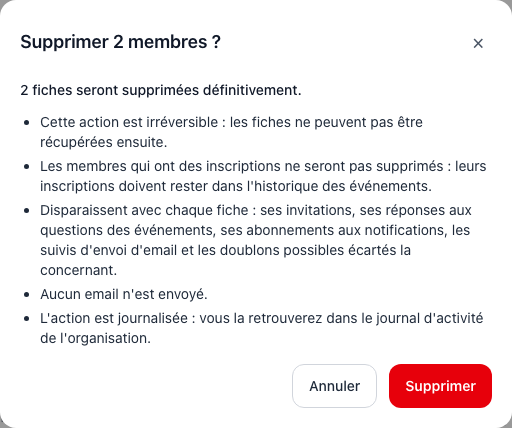
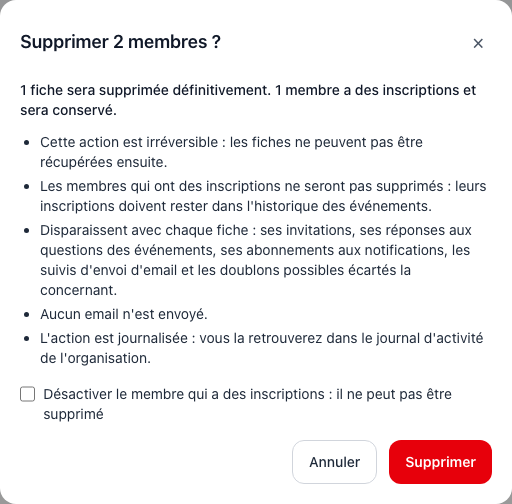
feat(members): say how many records a bulk deletion keeps
The confirmation now says how many records will be deleted and how many
members are kept for their registrations, instead of announcing the whole
selection as deleted. The checkbox names the members it deactivates.
Recapture the dialog with one member of each kind.

Closes #1307

diff --git a/src/lib/__tests__/action-recap.test.ts b/src/lib/__tests__/action-recap.test.ts
@@ -1,5 +1,5 @@
 import { describe, it, expect } from "vitest"
-import { acceptRequestRecap, bulkCancelCounts, bulkCancelRecap, bulkDeactivateMembersRecap, dayLabel, bulkLeaderRecap, bulkResendRecap, deactivateMemberRecap, broadcastRecap, prefillRecap, prefillNeedsConfirmation, deleteMilestoneRecap, deleteOrgRecap, deletePageRecap, toggleOrgRecap, deleteRoleRecap, deleteShiftRecap, shiftWhen, logLinkFor, remindInvitedRecap, removeLeaderRecap, unsavedRoleOrderRecap } from "../action-recap"
+import { acceptRequestRecap, bulkCancelCounts, bulkCancelRecap, bulkDeactivateMembersRecap, bulkDeleteMembersRecap, dayLabel, bulkLeaderRecap, bulkResendRecap, deactivateMemberRecap, broadcastRecap, prefillRecap, prefillNeedsConfirmation, deleteMilestoneRecap, deleteOrgRecap, deletePageRecap, toggleOrgRecap, deleteRoleRecap, deleteShiftRecap, shiftWhen, logLinkFor, remindInvitedRecap, removeLeaderRecap, unsavedRoleOrderRecap } from "../action-recap"
 
 // Confirmation before sensitive actions (#379).
 describe("action recaps", () => {
@@ -148,5 +148,22 @@ describe("unsavedRoleOrderRecap", () => {
     expect(r.confirmLabel).toBe("Fermer sans enregistrer")
     expect(r.danger).toBe(false)
     expect(r.lines).toEqual([])
+  })
+})
+
+describe("bulkDeleteMembersRecap lead (#1307)", () => {
+  it("announces the whole selection when nothing is known about registrations", () => {
+    expect(bulkDeleteMembersRecap(3).lead).toBe("3 fiches seront supprimées définitivement.")
+    expect(bulkDeleteMembersRecap(1, 0).lead).toBe("Cette fiche sera supprimée définitivement.")
+  })
+
+  it("says how many go and how many stay when some members have registrations", () => {
+    expect(bulkDeleteMembersRecap(2, 1).lead).toBe("1 fiche sera supprimée définitivement. 1 membre a des inscriptions et sera conservé.")
+    expect(bulkDeleteMembersRecap(10, 3).lead).toBe("7 fiches seront supprimées définitivement. 3 membres ont des inscriptions et seront conservés.")
+  })
+
+  it("never announces a deletion when every selected member will be kept", () => {
+    expect(bulkDeleteMembersRecap(2, 2).lead).toBe("Aucune fiche ne sera supprimée : les 2 membres sélectionnés ont des inscriptions.")
+    expect(bulkDeleteMembersRecap(1, 1).lead).toBe("Cette fiche ne sera pas supprimée : ce membre a des inscriptions.")
   })
 })

diff --git a/src/lib/action-recap.ts b/src/lib/action-recap.ts
@@ -158,12 +158,30 @@ export function bulkDeactivateMembersRecap(count: number): ActionRecap {
  * exclusions the action applies are said before it runs — an explicit confirmation replaces the
  * deactivation step of the single-member action.
  */
-export function bulkDeleteMembersRecap(count: number): ActionRecap {
+/**
+ * `withRegistrations`: how many selected members have registrations, when the list knows it
+ * (#1307). The lead then says how many records will really go, instead of announcing the whole
+ * selection as deleted when some (or all) of it will be kept.
+ */
+function bulkDeleteLead(count: number, withRegistrations: number | null): string {
+  const all = count > 1 ? `${count} fiches seront supprimées définitivement.` : "Cette fiche sera supprimée définitivement."
+  if (withRegistrations === null || withRegistrations <= 0) return all
+  const kept = Math.min(withRegistrations, count)
+  const deletable = count - kept
+  if (deletable === 0) {
+    return count > 1
+      ? `Aucune fiche ne sera supprimée : les ${count} membres sélectionnés ont des inscriptions.`
+      : "Cette fiche ne sera pas supprimée : ce membre a des inscriptions."
+  }
+  const goes = deletable > 1 ? `${deletable} fiches seront supprimées définitivement.` : "1 fiche sera supprimée définitivement."
+  const stays = kept > 1 ? `${kept} membres ont des inscriptions et seront conservés.` : "1 membre a des inscriptions et sera conservé."
+  return `${goes} ${stays}`
+}
+
+export function bulkDeleteMembersRecap(count: number, withRegistrations: number | null = null): ActionRecap {
   return {
     title: `Supprimer ${n(count, "membre", "membres")} ?`,
-    lead: count > 1
-      ? `${count} fiches seront supprimées définitivement.`
-      : "Cette fiche sera supprimée définitivement.",
+    lead: bulkDeleteLead(count, withRegistrations),
     lines: [
       "Cette action est irréversible : les fiches ne peuvent pas être récupérées ensuite.",
       "Les membres qui ont des inscriptions ne seront pas supprimés : leurs inscriptions doivent rester dans l'historique des événements.",

diff --git a/src/components/__tests__/MembersManager.react.test.tsx b/src/components/__tests__/MembersManager.react.test.tsx
@@ -443,7 +443,7 @@ describe("MembersManager — bulk deactivating a selection", () => {
     fireEvent.click(screen.getByRole("checkbox", { name: "Tout sélectionner" }))
     fireEvent.click(screen.getByRole("button", { name: "Supprimer la sélection" }))
     const dialog = screen.getByRole("alertdialog", { name: "Supprimer 3 membres ?" })
-    const checkbox = within(dialog).getByRole("checkbox", { name: /^Désactiver les membres qui ne peuvent pas être supprimés \(ceux qui ont des inscriptions\) \(1 membre\)$/ })
+    const checkbox = within(dialog).getByRole("checkbox", { name: "Désactiver le membre qui a des inscriptions : il ne peut pas être supprimé" })
     expect(checkbox).not.toBeChecked()
   })
 
@@ -482,7 +482,7 @@ describe("MembersManager — bulk deactivating a selection", () => {
     fireEvent.click(screen.getByRole("checkbox", { name: "Tout sélectionner" }))
     fireEvent.click(screen.getByRole("button", { name: "Supprimer la sélection" }))
     const dialog = screen.getByRole("alertdialog", { name: "Supprimer 3 membres ?" })
-    fireEvent.click(within(dialog).getByRole("checkbox", { name: /Désactiver les membres/ }))
+    fireEvent.click(within(dialog).getByRole("checkbox", { name: /^Désactiver (le|les) / }))
     fireEvent.click(within(dialog).getByRole("button", { name: "Supprimer" }))
 
     await waitFor(() => expect(fetchMock).toHaveBeenCalledWith("/api/admin/members/bulk-delete", {

diff --git a/src/lib/__tests__/member-bulk-deletion.test.ts b/src/lib/__tests__/member-bulk-deletion.test.ts
@@ -153,8 +153,8 @@ describe("bulk deletion checkbox (#1307)", () => {
   it("labels the checkbox with the number of selected members that have registrations, singular included", () => {
     expect(bulkDeactivateKeptLabel(null)).toBe(BULK_DEACTIVATE_KEPT_LABEL)
     expect(bulkDeactivateKeptLabel(0)).toBe(BULK_DEACTIVATE_KEPT_LABEL)
-    expect(bulkDeactivateKeptLabel(1)).toBe(`${BULK_DEACTIVATE_KEPT_LABEL} (1 membre)`)
-    expect(bulkDeactivateKeptLabel(3)).toBe(`${BULK_DEACTIVATE_KEPT_LABEL} (3 membres)`)
+    expect(bulkDeactivateKeptLabel(1)).toBe("Désactiver le membre qui a des inscriptions : il ne peut pas être supprimé")
+    expect(bulkDeactivateKeptLabel(3)).toBe("Désactiver les 3 membres qui ont des inscriptions : ils ne peuvent pas être supprimés")
   })
 
   it("counts the selected members with registrations from the counts the list already loaded", () => {

diff --git a/src/lib/member-bulk-deletion.ts b/src/lib/member-bulk-deletion.ts
@@ -179,9 +179,10 @@ export const BULK_DEACTIVATE_KEPT_LABEL = "Désactiver les membres qui ne peuven
  * already knows it (`null` when an unknown count means the number can't be stated).
  */
 export function bulkDeactivateKeptLabel(withRegistrations: number | null): string {
-  return withRegistrations !== null && withRegistrations > 0
-    ? `${BULK_DEACTIVATE_KEPT_LABEL} (${withRegistrations} membre${withRegistrations > 1 ? "s" : ""})`
-    : BULK_DEACTIVATE_KEPT_LABEL
+  if (withRegistrations === null || withRegistrations <= 0) return BULK_DEACTIVATE_KEPT_LABEL
+  return withRegistrations > 1
+    ? `Désactiver les ${withRegistrations} membres qui ont des inscriptions : ils ne peuvent pas être supprimés`
+    : "Désactiver le membre qui a des inscriptions : il ne peut pas être supprimé"
 }
 
 /**

diff --git a/src/components/admin/MembersManager.tsx b/src/components/admin/MembersManager.tsx
@@ -547,7 +547,7 @@ export default function MembersManager({ initialMembers, allTags, initialSearch,
       )}
       {pendingBulkDelete && (
         <ConfirmActionModal
-          recap={bulkDeleteMembersRecap(pendingBulkDelete.count)}
+          recap={bulkDeleteMembersRecap(pendingBulkDelete.count, pendingBulkDelete.withRegistrations)}
           busy={bulkDeleting}
           error={bulkDeleteError}
           onConfirm={() => void runBulkDelete(pendingBulkDelete, bulkDeactivateKept)}

diff --git a/content/guide/effacer-ou-supprimer-un-membre.md b/content/guide/effacer-ou-supprimer-un-membre.md
@@ -24,9 +24,9 @@ Pour retirer d'un coup des membres importés par erreur, cochez-les dans la list
 
 La confirmation indique combien de membres seront supprimés, rappelle que l'action est **irréversible** et que les membres qui ont des inscriptions ne seront pas supprimés. À la différence de la suppression d'une fiche seule, un membre **actif sans inscription** est supprimé directement : la confirmation explicite remplace l'étape de désactivation. Les fiches qui ont des inscriptions restent, parce que leurs inscriptions doivent rester dans l'historique des événements ; les fiches fusionnées restent aussi, puisque la fusion les supprime automatiquement après son délai. Aucun email n'est envoyé, et chaque suppression est journalisée dans le journal d'activité de l'organisation.
 
-Quand des membres sélectionnés ont des inscriptions, la confirmation propose une case **Désactiver les membres qui ne peuvent pas être supprimés (ceux qui ont des inscriptions)**, décochée par défaut. Son libellé affiche leur nombre quand la liste le connaît, par exemple « … (3 membres) », et la case disparaît quand aucun membre sélectionné n'a d'inscription. Cochée, la même action désactive les membres laissés qui sont encore actifs ; les membres déjà inactifs restent laissés tels quels, sans être désactivés une seconde fois.
+Quand des membres sélectionnés ont des inscriptions, la confirmation dit combien de fiches seront supprimées et combien seront conservées, et propose une case, décochée par défaut, pour **désactiver** les membres conservés (par exemple « Désactiver les 3 membres qui ont des inscriptions : ils ne peuvent pas être supprimés »). La case n'apparaît pas quand aucun membre sélectionné n'a d'inscription. Cochée, la même action désactive les membres conservés qui sont encore actifs ; ceux qui sont déjà inactifs restent tels quels.
 
-![Confirmation « Supprimer 2 membres ? » : les fiches sont supprimées définitivement, les membres qui ont des inscriptions restent, la case décochée « Désactiver les membres qui ne peuvent pas être supprimés (ceux qui ont des inscriptions) (2 membres) », aucun email n'est envoyé, puis les boutons Annuler et Supprimer](/doc-img/admin-members-bulk-delete.png)
+![Confirmation « Supprimer 2 membres ? » : une fiche sera supprimée définitivement et un membre, qui a des inscriptions, sera conservé ; la case décochée « Désactiver le membre qui a des inscriptions : il ne peut pas être supprimé », aucun email n'est envoyé, puis les boutons Annuler et Supprimer](/doc-img/admin-members-bulk-delete.png)
 
 Après l'action, la liste se rafraîchit et le résultat est annoncé : par exemple « 198 membres supprimés. 3 laissés car ils ont des inscriptions : Anne Favre, Marc Rochat, Léa Dubois. Vous pouvez les effacer depuis leur fiche. » Avec la case cochée, il dit plutôt « 198 membres supprimés. 3 désactivés car ils ont des inscriptions : Anne Favre, Marc Rochat, Léa Dubois. », et les membres déjà inactifs sont comptés comme laissés. Le focus va sur ce message, ou sur le titre de la page s'il ne reste plus aucun membre. Une sélection de plus de 500 membres part en plusieurs fois, sans que vous ayez à faire quoi que ce soit.
 
